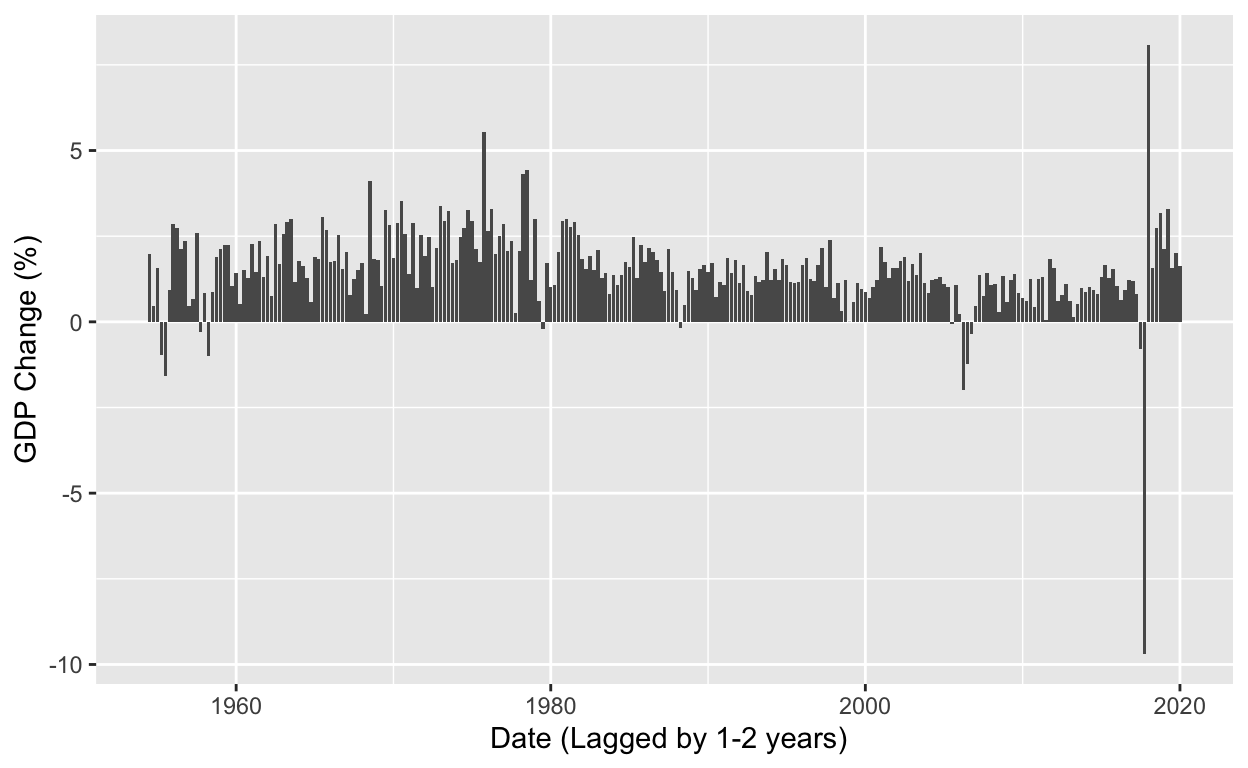
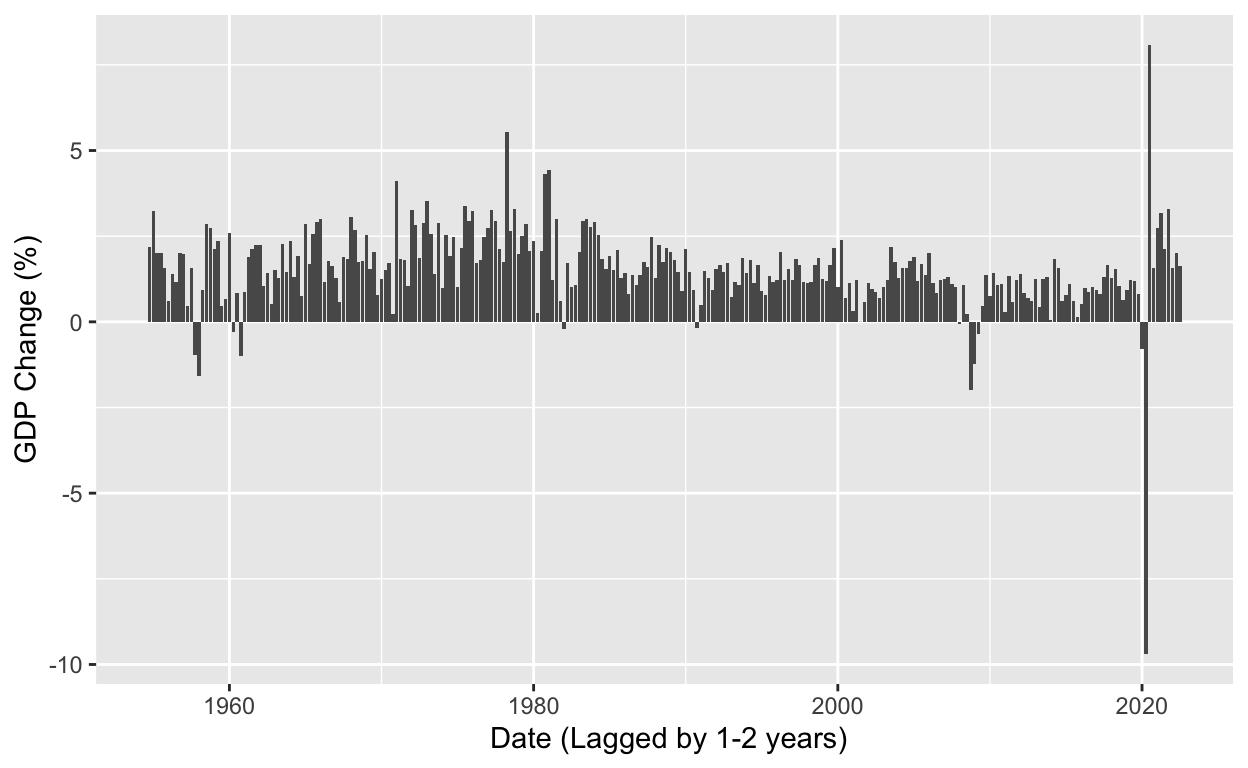
11/28/22

diff --git a/index.html b/index.html
@@ -1541,26 +1541,26 @@ Data on U.S. GDP by year since 1947 (the first year they were documented): <a hr
 <span></span>
 <span><span class='va'>GDP_And_Fed_Funds_Rates</span> <span class='op'>&lt;-</span> <span class='va'>GDP_And_Fed_Funds_Rates</span> <span class='op'>|&gt;</span></span>
 <span>  <span class='fu'><a href='https://dplyr.tidyverse.org/reference/arrange.html'>arrange</a></span><span class='op'>(</span><span class='va'>Date</span><span class='op'>)</span> <span class='op'>|&gt;</span> <span class='co'># first sort by Date</span></span>
-<span>  <span class='fu'><a href='https://dplyr.tidyverse.org/reference/mutate.html'>mutate</a></span><span class='op'>(</span>GDP_change_percent <span class='op'>=</span> <span class='op'>(</span><span class='op'>(</span><span class='va'>GDP</span> <span class='op'>-</span> <span class='fu'>lag</span><span class='op'>(</span><span class='va'>GDP</span><span class='op'>)</span><span class='op'>)</span> <span class='op'>/</span> <span class='va'>GDP</span><span class='op'>)</span> <span class='op'>*</span> <span class='fl'>100</span>, <span class='co'># Difference in GDP between Dates</span></span>
+<span>  <span class='fu'><a href='https://dplyr.tidyverse.org/reference/mutate.html'>mutate</a></span><span class='op'>(</span>GDP_change_percent <span class='op'>=</span> <span class='op'>(</span><span class='op'>(</span><span class='va'>GDP</span> <span class='op'>-</span> <span class='fu'>lag</span><span class='op'>(</span><span class='va'>GDP</span><span class='op'>)</span><span class='op'>)</span> <span class='op'>/</span> <span class='va'>GDP</span><span class='op'>)</span> <span class='op'>*</span> <span class='fl'>100</span>, </span>
 <span>         Rate_percent <span class='op'>=</span> <span class='op'>(</span><span class='va'>GDP_change_percent</span> <span class='op'>/</span><span class='fu'>lag</span><span class='op'>(</span><span class='va'>GDP</span><span class='op'>)</span> <span class='op'>*</span> <span class='fl'>100</span><span class='op'>)</span>,</span>
-<span>         Date_lag <span class='op'>=</span>  <span class='fu'>lag</span><span class='op'>(</span><span class='va'>Date</span>, <span class='fl'>10</span><span class='op'>)</span><span class='op'>)</span><span class='co'># growth rate in percent</span></span>
+<span>         Rate_lag <span class='op'>=</span> <span class='fu'>lag</span><span class='op'>(</span><span class='va'>`Fed Funds Rate`</span>, <span class='fl'>5</span><span class='op'>)</span><span class='op'>)</span></span>
 <span></span>
-<span><span class='va'>regression</span> <span class='op'>&lt;-</span> <span class='fu'><a href='https://rdrr.io/r/stats/lm.html'>lm</a></span><span class='op'>(</span><span class='va'>GDP</span> <span class='op'>~</span> <span class='va'>`Fed Funds Rate`</span> <span class='op'>+</span> <span class='va'>Date_lag</span>, <span class='va'>GDP_And_Fed_Funds_Rates</span><span class='op'>)</span></span>
+<span><span class='va'>regression</span> <span class='op'>&lt;-</span> <span class='fu'><a href='https://rdrr.io/r/stats/lm.html'>lm</a></span><span class='op'>(</span><span class='va'>GDP</span> <span class='op'>~</span> <span class='va'>`Fed Funds Rate`</span> <span class='op'>+</span> <span class='va'>Rate_lag</span> <span class='op'>+</span> <span class='va'>Date</span>, <span class='va'>GDP_And_Fed_Funds_Rates</span><span class='op'>)</span></span>
 <span></span>
 <span><span class='va'>ggplot_fed_funds_rates</span> <span class='op'>&lt;-</span> <span class='fu'><a href='https://ggplot2.tidyverse.org/reference/ggplot.html'>ggplot</a></span><span class='op'>(</span>data <span class='op'>=</span> <span class='va'>GDP_And_Fed_Funds_Rates</span>, mapping <span class='op'>=</span> <span class='fu'><a href='https://ggplot2.tidyverse.org/reference/aes.html'>aes</a></span><span class='op'>(</span>x <span class='op'>=</span> <span class='va'>Date</span>, y <span class='op'>=</span> <span class='va'>`Fed Funds Rate`</span><span class='op'>)</span><span class='op'>)</span> <span class='op'>+</span></span>
 <span>  <span class='fu'><a href='https://ggplot2.tidyverse.org/reference/geom_bar.html'>geom_col</a></span><span class='op'>(</span><span class='op'>)</span> <span class='op'>+</span></span>
 <span>  <span class='fu'><a href='https://ggplot2.tidyverse.org/reference/labs.html'>labs</a></span><span class='op'>(</span>y <span class='op'>=</span> <span class='st'>"Fed Funds Rate (%)"</span><span class='op'>)</span></span>
 <span></span>
-<span><span class='va'>ggplot_GDP</span> <span class='op'>&lt;-</span> <span class='fu'><a href='https://ggplot2.tidyverse.org/reference/ggplot.html'>ggplot</a></span><span class='op'>(</span>data <span class='op'>=</span> <span class='va'>GDP_And_Fed_Funds_Rates</span>, mapping <span class='op'>=</span> <span class='fu'><a href='https://ggplot2.tidyverse.org/reference/aes.html'>aes</a></span><span class='op'>(</span>x <span class='op'>=</span> <span class='va'>Date_lag</span>, y <span class='op'>=</span> <span class='va'>GDP</span><span class='op'>)</span><span class='op'>)</span> <span class='op'>+</span></span>
+<span><span class='va'>ggplot_GDP</span> <span class='op'>&lt;-</span> <span class='fu'><a href='https://ggplot2.tidyverse.org/reference/ggplot.html'>ggplot</a></span><span class='op'>(</span>data <span class='op'>=</span> <span class='va'>GDP_And_Fed_Funds_Rates</span>, mapping <span class='op'>=</span> <span class='fu'><a href='https://ggplot2.tidyverse.org/reference/aes.html'>aes</a></span><span class='op'>(</span>x <span class='op'>=</span> <span class='va'>Date</span>, y <span class='op'>=</span> <span class='va'>GDP</span><span class='op'>)</span><span class='op'>)</span> <span class='op'>+</span></span>
 <span>  <span class='fu'><a href='https://ggplot2.tidyverse.org/reference/geom_bar.html'>geom_col</a></span><span class='op'>(</span><span class='op'>)</span> <span class='op'>+</span></span>
 <span>   <span class='fu'><a href='https://ggplot2.tidyverse.org/reference/labs.html'>labs</a></span><span class='op'>(</span>x <span class='op'>=</span> <span class='st'>" Date (Lagged by 1-2 years)"</span>, </span>
 <span>        y <span class='op'>=</span> <span class='st'>"GDP ($ Billions)"</span><span class='op'>)</span></span>
 <span></span>
-<span><span class='va'>ggplot_GDP_growth_rate</span> <span class='op'>&lt;-</span> <span class='fu'><a href='https://ggplot2.tidyverse.org/reference/ggplot.html'>ggplot</a></span><span class='op'>(</span>data <span class='op'>=</span> <span class='va'>GDP_And_Fed_Funds_Rates</span>, mapping <span class='op'>=</span> <span class='fu'><a href='https://ggplot2.tidyverse.org/reference/aes.html'>aes</a></span><span class='op'>(</span>x <span class='op'>=</span> <span class='va'>Date_lag</span>, y <span class='op'>=</span> <span class='va'>GDP_change_percent</span><span class='op'>)</span><span class='op'>)</span> <span class='op'>+</span></span>
+<span><span class='va'>ggplot_GDP_growth_rate</span> <span class='op'>&lt;-</span> <span class='fu'><a href='https://ggplot2.tidyverse.org/reference/ggplot.html'>ggplot</a></span><span class='op'>(</span>data <span class='op'>=</span> <span class='va'>GDP_And_Fed_Funds_Rates</span>, mapping <span class='op'>=</span> <span class='fu'><a href='https://ggplot2.tidyverse.org/reference/aes.html'>aes</a></span><span class='op'>(</span>x <span class='op'>=</span> <span class='va'>Date</span>, y <span class='op'>=</span> <span class='va'>GDP_change_percent</span><span class='op'>)</span><span class='op'>)</span> <span class='op'>+</span></span>
 <span>  <span class='fu'><a href='https://ggplot2.tidyverse.org/reference/geom_bar.html'>geom_col</a></span><span class='op'>(</span><span class='op'>)</span> <span class='op'>+</span></span>
 <span>  <span class='fu'><a href='https://ggplot2.tidyverse.org/reference/labs.html'>labs</a></span><span class='op'>(</span>x <span class='op'>=</span> <span class='st'>" Date (Lagged by 1-2 years)"</span>, y <span class='op'>=</span> <span class='st'>"GDP Change (%)"</span><span class='op'>)</span></span>
 <span></span>
-<span><span class='va'>ggplot_regression</span> <span class='op'>&lt;-</span> <span class='fu'><a href='https://ggplot2.tidyverse.org/reference/ggplot.html'>ggplot</a></span><span class='op'>(</span>data <span class='op'>=</span> <span class='va'>GDP_And_Fed_Funds_Rates</span>, mapping <span class='op'>=</span> <span class='fu'><a href='https://ggplot2.tidyverse.org/reference/aes.html'>aes</a></span><span class='op'>(</span>x <span class='op'>=</span><span class='va'>`Fed Funds Rate`</span>, y <span class='op'>=</span> <span class='va'>GDP</span><span class='op'>)</span><span class='op'>)</span> <span class='op'>+</span></span>
+<span><span class='va'>ggplot_regression</span> <span class='op'>&lt;-</span> <span class='fu'><a href='https://ggplot2.tidyverse.org/reference/ggplot.html'>ggplot</a></span><span class='op'>(</span>data <span class='op'>=</span> <span class='va'>GDP_And_Fed_Funds_Rates</span>, mapping <span class='op'>=</span> <span class='fu'><a href='https://ggplot2.tidyverse.org/reference/aes.html'>aes</a></span><span class='op'>(</span>x <span class='op'>=</span> <span class='va'>Rate_lag</span>, y <span class='op'>=</span> <span class='va'>GDP</span><span class='op'>)</span><span class='op'>)</span> <span class='op'>+</span></span>
 <span>  <span class='fu'><a href='https://ggplot2.tidyverse.org/reference/geom_point.html'>geom_point</a></span><span class='op'>(</span><span class='op'>)</span> <span class='op'>+</span></span>
 <span>  <span class='fu'><a href='https://ggplot2.tidyverse.org/reference/geom_smooth.html'>geom_smooth</a></span><span class='op'>(</span>method <span class='op'>=</span> <span class='st'>"lm"</span><span class='op'>)</span> <span class='op'>+</span></span>
 <span>  <span class='fu'><a href='https://ggplot2.tidyverse.org/reference/labs.html'>labs</a></span><span class='op'>(</span>x <span class='op'>=</span> <span class='st'>"Fed Funds Rate (%)"</span>,</span>
@@ -1592,7 +1592,7 @@ Data on U.S. GDP by year since 1947 (the first year they were documented): <a hr
 <h2 id="final-report">Final Report:</h2>
 <p><strong>Introduction:</strong> My research question asked if there was a causal relationship between the U.S. federal funds rate, which determines the price of overnight lending by banks to other banks, and the overall U.S. gross domestic product, or GDP. This question is interesting because the federal funds rate is typically understood to affect interest rates at large throughout the U.S. economy. So, if the Federal Reserve, which sets the federal funds rate, decides a higher interest rate, this is typically believed to slow economic growth, and borrowing becomes more expensive and companies do not want to take on as much debt, which can help facilitate growth. Based on this, my hypothesis was that there was a negative relationship between the federal funds rate and overall U.S. GDP year-over-year, starting when the the data was first collected in 1954 to present day in 2022. This means that if interest rates went up, meaning that borrowing went down, GDP would go down.</p>
 <p><strong>Data:</strong> This was a cross-sectional study. My data source was the Federal Reserve Economic Data, or the FRED. The two data sets that I merged were datasets on the effective federal funds rate starting in 1954, which outputted one rate per year, and the U.S. gross domestic product (GDP) starting in 1947, which outputted one number a year, with a trillion dollar amount of the goods and services produced that year in the United States. Since the federal funds rates data was first tracked in 1954, that is where my analysis starts.</p>
-<p>I initially calculated the relationship between GDP and federal funds rate without any lag in the years. However, economists estimate that there is usually a 12 month lag in the economy, meaning that any change in interest rates by the Federal Reserve will take 12 months to affect GDP. Because of this, I created a Date_lag variable that lagged the years by 1-2 years to take this into account.</p>
+<p>I initially calculated the relationship between GDP and federal funds rate without any lag in the years. However, economists estimate that there is usually a 12 month lag in the economy, meaning that any change in interest rates by the Federal Reserve will take 12 months to affect GDP. Because of this, I created a Rate_lag variable that lagged the federal funds rates behind GDP by 1-2 years to take this into account.</p>
 <p>The independent variable in this study is the federal funds rate, and the dependent variable is GDP by year, because I am hypothesizing that the federal funds rate has a direct effect on GDP.</p>
 <p><strong>Results:</strong></p>
 <div class="layout-chunk" data-layout="l-body">
@@ -1621,14 +1621,14 @@ Model 1
 (Intercept)
 </td>
 <td style="text-align:center;">
-3926.835***
+3649.137***
 </td>
 </tr>
 <tr>
 <td style="text-align:left;">
 </td>
 <td style="text-align:center;">
-(219.225)
+(209.906)
 </td>
 </tr>
 <tr>
@@ -1636,29 +1636,44 @@ Model 1
 Fed Funds Rate
 </td>
 <td style="text-align:center;">
-−356.667***
+−157.054***
 </td>
 </tr>
 <tr>
 <td style="text-align:left;">
 </td>
 <td style="text-align:center;">
-(28.828)
+(42.605)
 </td>
 </tr>
 <tr>
 <td style="text-align:left;">
-Date_lag
+Rate_lag
 </td>
 <td style="text-align:center;">
-0.880***
+−274.719***
+</td>
+</tr>
+<tr>
+<td style="text-align:left;">
+</td>
+<td style="text-align:center;">
+(41.665)
+</td>
+</tr>
+<tr>
+<td style="text-align:left;">
+Date
+</td>
+<td style="text-align:center;">
+0.862***
 </td>
 </tr>
 <tr>
 <td style="text-align:left;box-shadow: 0px 1px">
 </td>
 <td style="text-align:center;box-shadow: 0px 1px">
-(0.015)
+(0.014)
 </td>
 </tr>
 <tr>
@@ -1666,7 +1681,7 @@ Date_lag
 Num.Obs.
 </td>
 <td style="text-align:center;">
-263
+268
 </td>
 </tr>
 <tr>
@@ -1674,7 +1689,7 @@ Num.Obs.
 R2
 </td>
 <td style="text-align:center;">
-0.949
+0.955
 </td>
 </tr>
 <tr>
@@ -1682,16 +1697,16 @@ R2
 R2 Adj.
 </td>
 <td style="text-align:center;">
-0.949
+0.955
 </td>
 </tr>
 </tbody>
 </table>
 </div>
-<p>This linear regression regression analysis shows a causal relationship between GDP and federal funds rates.</p>
-<p>In my regression analysis, the main coefficient of interest was the coefficient between the federal funds rate and GDP, which came out to -356 when accounting for lag, meaning that when interest rates increase by a full point, GDP decreases by $356B. This coefficient shows a strong negative relationship between the federal funds rates and GDP, and is statistically significant.</p>
-<p>I also ran the regression with the date in mind. The date coefficient was .88 (with lag accounted for), meaning every time date increased by 1, GDP increased by $880M. This is in line with estimates, as GDP has steadily rose throughout time.</p>
-<p><strong>Summary:</strong> My results did support my hypothesis that there is a strong negative causal relationship between federal funds rates and GDP. A limitation of my analysis was that data has only been tracked for 68 years, which may not be enough time to show a causal relationship. Some threats to inference or confounding variables could be other macroeconomic factors in the environment that had effects on GDP, such as geopolitical events, trade wars, shortages/ surpluses of certain goods, or boom/ bust economic cycles. My analysis could be improved by gathering other data like the above that could have a confounding effect, and test that data for a null hypothesis to ensure that it did not have a confounding effect.</p>
+<p>This linear regression regression analysis shows a strong negative correlation between GDP and federal funds rates.</p>
+<p>In my regression analysis, the main coefficient of interest was the coefficient between the federal funds rate and GDP, which came out to -274 when accounting for lag, meaning that when interest rates increase by a full point, GDP decreases by $274B. This coefficient shows a strong negative relationship between the federal funds rates and GDP, and is statistically significant.</p>
+<p>I also ran the regression with the date in mind. The date coefficient was .86, meaning every time date increased by 1, GDP increased by $860M. This is in line with estimates, as GDP has steadily rose throughout time.</p>
+<p><strong>Summary:</strong> My results did support my hypothesis that there is a strong negative correlation between federal funds rates and GDP. A limitation of my analysis was that data has only been tracked for 68 years, which may not be enough time to show a causal relationship. Some threats to inference or confounding variables could be other macroeconomic factors in the environment that had effects on GDP, such as geopolitical events, trade wars, shortages/ surpluses of certain goods, or boom/ bust economic cycles. My analysis could be improved by gathering other data like the above that could have a confounding effect, and test that data for a null hypothesis to ensure that it did not have a confounding effect.</p>
 <p>The takeaway from this research project is that the Federal Reserve must be very careful, thoughtful, and sparing in their decision to change interest rates, as this has a profound effect on the U.S. and global economy. An increase in the interest rates that is not needed can adversely affect billions of lives around the world, which is why those at the Federal Reserve must be very calculated and responsible in their actions.</p>
 <div class="sourceCode" id="cb1"><pre class="sourceCode r distill-force-highlighting-css"><code class="sourceCode r"></code></pre></div>
 <!--radix_placeholder_article_footer-->
